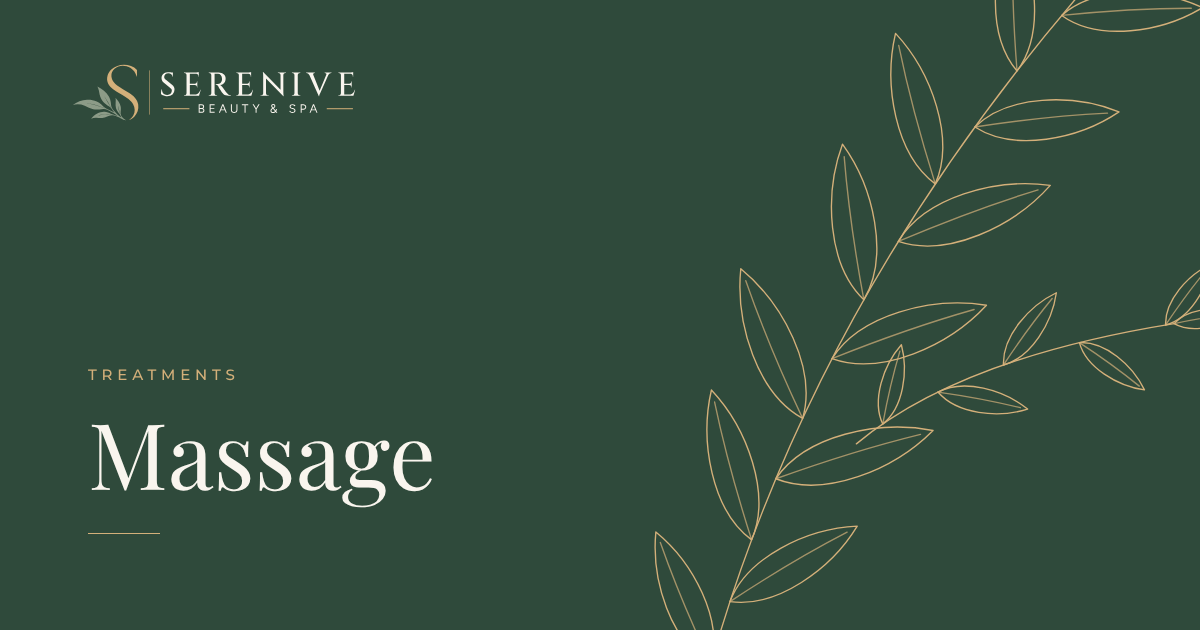
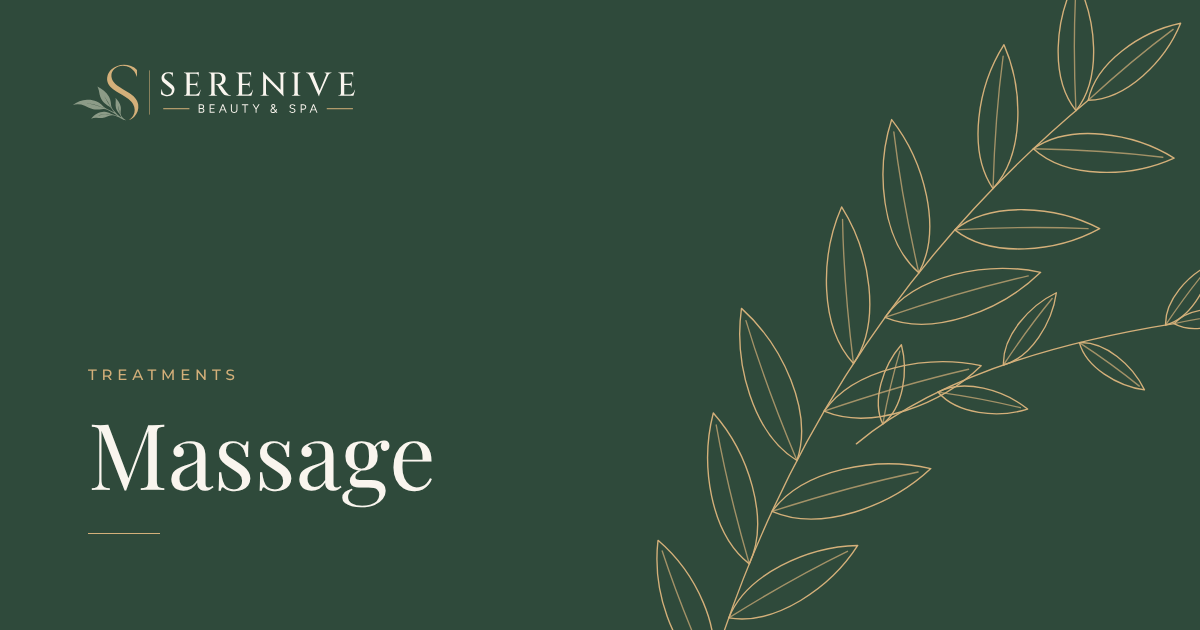
Fix leaf under nav, intro and footer alignment; add Powered by Me²
- Start the hero line art and inner-page leaf texture below the header so
  no leaves sit under the nav; keep branch tips inside their frames
- Intro: label row on top, quote and paragraph share a top line
- Section-head links sit on the heading baseline (a general .link rule was
  overriding the grid alignment)
- Footer logo box no longer stretches to its height attribute (img height
  auto), so it lines up with the column headings; tagline breaks after
  'Beauty.'
- Add 'Powered by Me²' linking to mesquaredagency.com in the footer
- Re-render share images with the updated leaf texture

Claude-Session: https://claude.ai/code/session_018zu9k89iTLere9TFqeFjB4

Changed region(s): [[0.5242, 0.0, 1.0, 1.0]]

diff --git a/public/index.html b/public/index.html
@@ -52,7 +52,7 @@
 <section class="hero">
   <img class="hero__backdrop" src="/assets/textures/hero-backdrop.webp" alt="" width="1920" height="1200" fetchpriority="high" decoding="async">
   <div class="hero__art" aria-hidden="true">
-    <svg viewBox="850 0 750 1000" preserveAspectRatio="xMaxYMid meet"><g class="hero-art__lines" fill="none" stroke="#d4b07a" stroke-width="1.3" stroke-linecap="round" stroke-linejoin="round"><path pathLength="1" d="M1500.0 1000.0Q1180.0 520.0 1340.0 40.0"/><path pathLength="1" d="M1430.1 884.8C1376.7 898.9 1308.4 861.1 1272.3 814.9C1330.8 810.6 1404.6 835.8 1430.1 884.8Z"/><path pathLength="1" d="M1430.1 884.8Q1349.5 853.6 1284.9 820.5" opacity=".7"/><path pathLength="1" d="M1399.7 825.8C1378.9 770.4 1411.8 693.6 1457.2 650.0C1468.1 712.0 1449.2 793.4 1399.7 825.8Z"/><path pathLength="1" d="M1399.7 825.8Q1424.2 736.6 1452.6 664.1" opacity=".7"/><path pathLength="1" d="M1372.9 766.9C1315.7 778.2 1246.2 734.0 1211.1 683.0C1273.0 682.2 1349.2 713.5 1372.9 766.9Z"/><path pathLength="1" d="M1372.9 766.9Q1290.0 728.8 1224.0 689.7" opacity=".7"/><path pathLength="1" d="M1349.7 707.9C1330.9 647.7 1370.4 568.0 1421.3 524.3C1429.2 590.9 1404.3 676.3 1349.7 707.9Z"/><path pathLength="1" d="M1349.7 707.9Q1381.1 614.4 1415.6 539.0" opacity=".7"/><path pathLength="1" d="M1330.1 648.9C1265.7 654.8 1194.2 597.8 1161.4 537.4C1229.9 543.8 1310.3 587.3 1330.1 648.9Z"/><path pathLength="1" d="M1330.1 648.9Q1243.1 597.2 1174.9 546.3" opacity=".7"/><path pathLength="1" d="M1314.2 589.9C1310.3 526.9 1367.9 458.9 1427.7 428.7C1419.5 495.3 1374.8 572.3 1314.2 589.9Z"/><path pathLength="1" d="M1314.2 589.9Q1367.1 506.6 1418.6 441.6" opacity=".7"/><path pathLength="1" d="M1301.9 531.0C1237.7 536.8 1166.6 480.2 1133.9 420.0C1202.1 426.4 1282.1 469.6 1301.9 531.0Z"/><path pathLength="1" d="M1301.9 531.0Q1215.3 479.5 1147.4 428.9" opacity=".7"/><path pathLength="1" d="M1293.2 472.0C1292.1 406.4 1355.0 338.4 1418.5 309.8C1406.9 378.5 1357.0 456.5 1293.2 472.0Z"/><path pathLength="1" d="M1293.2 472.0Q1352.0 387.9 1408.5 322.7" opacity=".7"/><path pathLength="1" d="M1288.1 413.0C1229.9 403.4 1179.8 336.8 1164.7 276.0C1223.7 297.3 1284.7 354.1 1288.1 413.0Z"/><path pathLength="1" d="M1288.1 413.0Q1223.1 347.5 1174.6 286.9" opacity=".7"/><path pathLength="1" d="M1286.7 354.1C1302.1 296.8 1373.7 253.6 1436.0 244.6C1408.7 301.3 1345.9 356.5 1286.7 354.1Z"/><path pathLength="1" d="M1286.7 354.1Q1358.7 295.8 1424.0 253.4" opacity=".7"/><path pathLength="1" d="M1288.9 295.1C1233.4 280.7 1190.9 211.9 1181.7 151.7C1236.8 177.6 1290.7 237.8 1288.9 295.1Z"/><path pathLength="1" d="M1288.9 295.1Q1231.8 226.0 1190.2 163.2" opacity=".7"/><path pathLength="1" d="M1294.7 236.1C1306.9 179.4 1374.8 133.5 1435.3 121.7C1411.4 178.5 1352.7 235.6 1294.7 236.1Z"/><path pathLength="1" d="M1294.7 236.1Q1362.2 175.5 1424.0 130.8" opacity=".7"/><path pathLength="1" d="M1304.1 177.1C1254.1 157.7 1222.1 89.0 1220.1 32.0C1268.5 62.1 1312.1 124.1 1304.1 177.1Z"/><path pathLength="1" d="M1304.1 177.1Q1258.6 106.6 1226.8 43.7" opacity=".7"/><path pathLength="1" d="M1317.1 118.2C1337.7 69.2 1406.4 39.3 1462.8 38.8C1431.8 86.0 1369.4 127.5 1317.1 118.2Z"/><path pathLength="1" d="M1317.1 118.2Q1388.1 75.0 1451.2 45.2" opacity=".7"/><path pathLength="1" d="M1333.8 59.2C1283.4 45.6 1245.3 -17.4 1237.4 -72.3C1287.4 -48.3 1336.0 7.0 1333.8 59.2Z"/><path pathLength="1" d="M1333.8 59.2Q1282.4 -4.2 1245.1 -61.8" opacity=".7"/><path pathLength="1" d="M1340.0 40.0C1323.7 -4.2 1350.2 -65.1 1386.5 -99.5C1394.9 -50.2 1379.5 14.4 1340.0 40.0Z"/><path pathLength="1" d="M1340.0 40.0Q1359.9 -30.8 1382.8 -88.3" opacity=".7"/><path pathLength="1" d="M1240.0 640.0Q1050.0 520.0 930.0 300.0"/><path pathLength="1" d="M1195.4 609.8C1172.4 636.0 1123.3 640.3 1088.0 628.9C1117.2 606.0 1164.7 593.1 1195.4 609.8Z"/><path pathLength="1" d="M1195.4 609.8Q1142.2 621.9 1096.6 627.3" opacity=".7"/><path pathLength="1" d="M1144.8 569.9C1118.2 541.5 1118.7 486.7 1135.2 448.8C1157.4 483.6 1166.6 537.7 1144.8 569.9Z"/><path pathLength="1" d="M1144.8 569.9Q1137.1 509.6 1135.9 458.5" opacity=".7"/><path pathLength="1" d="M1097.0 525.9C1067.4 553.0 1010.7 551.9 971.7 534.4C1008.0 511.8 1064.0 502.9 1097.0 525.9Z"/><path pathLength="1" d="M1097.0 525.9Q1034.6 533.1 981.8 533.7" opacity=".7"/><path pathLength="1" d="M1052.2 477.7C1030.2 445.6 1039.2 391.4 1061.4 356.5C1078.0 394.4 1078.7 449.3 1052.2 477.7Z"/><path pathLength="1" d="M1052.2 477.7Q1053.9 416.9 1060.6 366.2" opacity=".7"/><path pathLength="1" d="M1010.2 425.5C978.5 443.0 929.2 429.9 898.9 406.3C935.3 394.3 986.2 398.5 1010.2 425.5Z"/><path pathLength="1" d="M1010.2 425.5Q954.1 418.6 907.8 407.9" opacity=".7"/><path pathLength="1" d="M971.1 369.2C956.0 337.5 971.6 290.4 996.3 262.4C1005.8 298.5 998.7 347.5 971.1 369.2Z"/><path pathLength="1" d="M971.1 369.2Q981.1 315.2 994.3 270.9" opacity=".7"/><path pathLength="1" d="M934.8 308.8C903.7 318.3 862.6 297.6 840.3 271.2C874.6 267.3 918.7 280.5 934.8 308.8Z"/><path pathLength="1" d="M934.8 308.8Q886.6 292.2 847.8 274.2" opacity=".7"/><path pathLength="1" d="M930.0 300.0C903.1 288.7 886.7 251.1 886.4 220.1C912.3 237.1 935.1 271.3 930.0 300.0Z"/><path pathLength="1" d="M930.0 300.0Q906.3 261.1 889.9 226.5" opacity=".7"/></g></svg>
+    <svg viewBox="850 -110 750 1150" preserveAspectRatio="xMaxYMid meet"><g class="hero-art__lines" fill="none" stroke="#d4b07a" stroke-width="1.3" stroke-linecap="round" stroke-linejoin="round"><path pathLength="1" d="M1500.0 1000.0Q1180.0 520.0 1340.0 40.0"/><path pathLength="1" d="M1430.1 884.8C1376.7 898.9 1308.4 861.1 1272.3 814.9C1330.8 810.6 1404.6 835.8 1430.1 884.8Z"/><path pathLength="1" d="M1430.1 884.8Q1349.5 853.6 1284.9 820.5" opacity=".7"/><path pathLength="1" d="M1399.7 825.8C1378.9 770.4 1411.8 693.6 1457.2 650.0C1468.1 712.0 1449.2 793.4 1399.7 825.8Z"/><path pathLength="1" d="M1399.7 825.8Q1424.2 736.6 1452.6 664.1" opacity=".7"/><path pathLength="1" d="M1372.9 766.9C1315.7 778.2 1246.2 734.0 1211.1 683.0C1273.0 682.2 1349.2 713.5 1372.9 766.9Z"/><path pathLength="1" d="M1372.9 766.9Q1290.0 728.8 1224.0 689.7" opacity=".7"/><path pathLength="1" d="M1349.7 707.9C1330.9 647.7 1370.4 568.0 1421.3 524.3C1429.2 590.9 1404.3 676.3 1349.7 707.9Z"/><path pathLength="1" d="M1349.7 707.9Q1381.1 614.4 1415.6 539.0" opacity=".7"/><path pathLength="1" d="M1330.1 648.9C1265.7 654.8 1194.2 597.8 1161.4 537.4C1229.9 543.8 1310.3 587.3 1330.1 648.9Z"/><path pathLength="1" d="M1330.1 648.9Q1243.1 597.2 1174.9 546.3" opacity=".7"/><path pathLength="1" d="M1314.2 589.9C1310.3 526.9 1367.9 458.9 1427.7 428.7C1419.5 495.3 1374.8 572.3 1314.2 589.9Z"/><path pathLength="1" d="M1314.2 589.9Q1367.1 506.6 1418.6 441.6" opacity=".7"/><path pathLength="1" d="M1301.9 531.0C1237.7 536.8 1166.6 480.2 1133.9 420.0C1202.1 426.4 1282.1 469.6 1301.9 531.0Z"/><path pathLength="1" d="M1301.9 531.0Q1215.3 479.5 1147.4 428.9" opacity=".7"/><path pathLength="1" d="M1293.2 472.0C1292.1 406.4 1355.0 338.4 1418.5 309.8C1406.9 378.5 1357.0 456.5 1293.2 472.0Z"/><path pathLength="1" d="M1293.2 472.0Q1352.0 387.9 1408.5 322.7" opacity=".7"/><path pathLength="1" d="M1288.1 413.0C1229.9 403.4 1179.8 336.8 1164.7 276.0C1223.7 297.3 1284.7 354.1 1288.1 413.0Z"/><path pathLength="1" d="M1288.1 413.0Q1223.1 347.5 1174.6 286.9" opacity=".7"/><path pathLength="1" d="M1286.7 354.1C1302.1 296.8 1373.7 253.6 1436.0 244.6C1408.7 301.3 1345.9 356.5 1286.7 354.1Z"/><path pathLength="1" d="M1286.7 354.1Q1358.7 295.8 1424.0 253.4" opacity=".7"/><path pathLength="1" d="M1288.9 295.1C1233.4 280.7 1190.9 211.9 1181.7 151.7C1236.8 177.6 1290.7 237.8 1288.9 295.1Z"/><path pathLength="1" d="M1288.9 295.1Q1231.8 226.0 1190.2 163.2" opacity=".7"/><path pathLength="1" d="M1294.7 236.1C1306.9 179.4 1374.8 133.5 1435.3 121.7C1411.4 178.5 1352.7 235.6 1294.7 236.1Z"/><path pathLength="1" d="M1294.7 236.1Q1362.2 175.5 1424.0 130.8" opacity=".7"/><path pathLength="1" d="M1304.1 177.1C1254.1 157.7 1222.1 89.0 1220.1 32.0C1268.5 62.1 1312.1 124.1 1304.1 177.1Z"/><path pathLength="1" d="M1304.1 177.1Q1258.6 106.6 1226.8 43.7" opacity=".7"/><path pathLength="1" d="M1317.1 118.2C1337.7 69.2 1406.4 39.3 1462.8 38.8C1431.8 86.0 1369.4 127.5 1317.1 118.2Z"/><path pathLength="1" d="M1317.1 118.2Q1388.1 75.0 1451.2 45.2" opacity=".7"/><path pathLength="1" d="M1333.8 59.2C1283.4 45.6 1245.3 -17.4 1237.4 -72.3C1287.4 -48.3 1336.0 7.0 1333.8 59.2Z"/><path pathLength="1" d="M1333.8 59.2Q1282.4 -4.2 1245.1 -61.8" opacity=".7"/><path pathLength="1" d="M1340.0 40.0C1323.7 -4.2 1350.2 -65.1 1386.5 -99.5C1394.9 -50.2 1379.5 14.4 1340.0 40.0Z"/><path pathLength="1" d="M1340.0 40.0Q1359.9 -30.8 1382.8 -88.3" opacity=".7"/><path pathLength="1" d="M1240.0 640.0Q1050.0 520.0 930.0 300.0"/><path pathLength="1" d="M1195.4 609.8C1172.4 636.0 1123.3 640.3 1088.0 628.9C1117.2 606.0 1164.7 593.1 1195.4 609.8Z"/><path pathLength="1" d="M1195.4 609.8Q1142.2 621.9 1096.6 627.3" opacity=".7"/><path pathLength="1" d="M1144.8 569.9C1118.2 541.5 1118.7 486.7 1135.2 448.8C1157.4 483.6 1166.6 537.7 1144.8 569.9Z"/><path pathLength="1" d="M1144.8 569.9Q1137.1 509.6 1135.9 458.5" opacity=".7"/><path pathLength="1" d="M1097.0 525.9C1067.4 553.0 1010.7 551.9 971.7 534.4C1008.0 511.8 1064.0 502.9 1097.0 525.9Z"/><path pathLength="1" d="M1097.0 525.9Q1034.6 533.1 981.8 533.7" opacity=".7"/><path pathLength="1" d="M1052.2 477.7C1030.2 445.6 1039.2 391.4 1061.4 356.5C1078.0 394.4 1078.7 449.3 1052.2 477.7Z"/><path pathLength="1" d="M1052.2 477.7Q1053.9 416.9 1060.6 366.2" opacity=".7"/><path pathLength="1" d="M1010.2 425.5C978.5 443.0 929.2 429.9 898.9 406.3C935.3 394.3 986.2 398.5 1010.2 425.5Z"/><path pathLength="1" d="M1010.2 425.5Q954.1 418.6 907.8 407.9" opacity=".7"/><path pathLength="1" d="M971.1 369.2C956.0 337.5 971.6 290.4 996.3 262.4C1005.8 298.5 998.7 347.5 971.1 369.2Z"/><path pathLength="1" d="M971.1 369.2Q981.1 315.2 994.3 270.9" opacity=".7"/><path pathLength="1" d="M934.8 308.8C903.7 318.3 862.6 297.6 840.3 271.2C874.6 267.3 918.7 280.5 934.8 308.8Z"/><path pathLength="1" d="M934.8 308.8Q886.6 292.2 847.8 274.2" opacity=".7"/><path pathLength="1" d="M930.0 300.0C903.1 288.7 886.7 251.1 886.4 220.1C912.3 237.1 935.1 271.3 930.0 300.0Z"/><path pathLength="1" d="M930.0 300.0Q906.3 261.1 889.9 226.5" opacity=".7"/></g></svg>
   </div>
   <div class="wrap hero__content">
     <img class="hero__mark" src="/assets/logos/serenive-monogram-ivory.svg" alt="" width="311" height="266">
@@ -65,12 +65,12 @@
 
 <section class="section section--ivory intro" aria-labelledby="why-title">
   <div class="wrap intro__grid" data-reveal>
-    <div class="stack">
+    <div class="intro__label">
       <hr class="rule">
       <p class="eyebrow">Why we exist</p>
-      <h2 class="quote" id="why-title">At Serenive, we believe true wellness comes from nurturing both body and mind.</h2>
     </div>
-    <div class="stack">
+    <h2 class="quote" id="why-title">At Serenive, we believe true wellness comes from nurturing both body and mind.</h2>
+    <div class="intro__body">
       <p class="lede">Through moments of serenity, thoughtful care and restorative treatments, we invite you to slow down, reconnect and rediscover the beauty of feeling truly well.</p>
       <a class="link" href="/philosophy">Our philosophy</a>
     </div>
@@ -187,7 +187,7 @@
     <div class="footer-top">
       <div class="footer-brand">
         <img src="/assets/logos/serenive-horizontal-reversed.svg" alt="Serenive Beauty &amp; Spa" width="816" height="198" loading="lazy">
-        <p class="footer-tag">More Than Beauty. A Feeling of Wellbeing.</p>
+        <p class="footer-tag">More Than Beauty.<br>A Feeling of Wellbeing.</p>
       </div>
       <div>
         <h2>Visit</h2>
@@ -213,7 +213,10 @@
     </div>
     <div class="footer-bottom">
       <p>&copy; <span id="year">2026</span> Serenive Beauty &amp; Spa</p>
-      <p><a href="https://serenive.com.au/">serenive.com.au</a></p>
+      <div class="footer-bottom__right">
+        <p><a href="https://serenive.com.au/">serenive.com.au</a></p>
+        <p class="powered">Powered by <a href="https://mesquaredagency.com/" rel="noopener">Me²</a></p>
+      </div>
     </div>
   </div>
 </footer>

diff --git a/public/css/site.css b/public/css/site.css
@@ -79,6 +79,7 @@ body {
   text-rendering: optimizeLegibility;
 }
 img, svg { display: block; max-width: 100%; }
+img { height: auto; }
 a { color: inherit; }
 p { margin: 0; }
 button, input, textarea, select { font: inherit; color: inherit; }
@@ -289,7 +290,7 @@ button, input, textarea, select { font: inherit; color: inherit; }
   padding-block: calc(140px + env(safe-area-inset-top, 0px)) 120px;
 }
 .hero__backdrop { position: absolute; inset: -3%; z-index: -2; width: 106%; height: 106%; max-width: none; object-fit: cover; animation: hero-drift 40s var(--ease) infinite alternate; will-change: transform; }
-.hero__art { position: absolute; top: 0; bottom: 0; right: 0; width: min(36vw, 560px); z-index: -1; pointer-events: none; }
+.hero__art { position: absolute; top: calc(96px + env(safe-area-inset-top, 0px)); bottom: 0; right: 0; width: min(36vw, 560px); z-index: -1; pointer-events: none; }
 @media (max-width: 760px) { .hero__art { width: 46vw; opacity: .55; } }
 .hero__art svg { width: 100%; height: 100%; }
 .hero-art__lines path { stroke-dasharray: 1; stroke-dashoffset: 1; animation: draw 4.2s var(--ease) .3s forwards; }
@@ -314,7 +315,7 @@ button, input, textarea, select { font: inherit; color: inherit; }
 /* ---------- Page hero (inner pages) ---------- */
 .page-hero {
   position: relative; overflow: hidden;
-  background: var(--forest) url("../assets/textures/forest-leaf.svg") right -40px center / auto 130% no-repeat;
+  background: var(--forest) url("../assets/textures/forest-leaf.svg") right -40px top calc(96px + env(safe-area-inset-top, 0px)) / auto 115% no-repeat;
   color: var(--on-forest);
   padding-block: calc(180px + env(safe-area-inset-top, 0px)) clamp(64px, 8vw, 112px);
 }
@@ -326,7 +327,7 @@ button, input, textarea, select { font: inherit; color: inherit; }
 .page-hero .stack > .h1 { animation-name: settle; } /* after the shorthand above, which would otherwise win */
 .page-hero .lede { color: var(--on-forest-muted); }
 @media (max-width: 760px) {
-  .page-hero { background-size: auto 70%; background-position: right -120px top 40px; }
+  .page-hero { background-size: auto 70%; background-position: right -120px top calc(88px + env(safe-area-inset-top, 0px)); }
   .page-hero__text { max-width: none; }
 }
 
@@ -360,15 +361,17 @@ button, input, textarea, select { font: inherit; color: inherit; }
 [data-draft] .tbc--q::after { content: " (to confirm)"; font-size: .78em; opacity: .7; letter-spacing: 0; text-transform: none; }
 
 /* ---------- Home: why we exist ---------- */
-.intro__grid { display: grid; grid-template-columns: repeat(12, minmax(0, 1fr)); gap: var(--space-5) var(--space-4); align-items: end; }
-.intro__grid > :first-child { grid-column: 1 / span 7; min-width: 0; }
-.intro__grid > :last-child { grid-column: 9 / span 4; min-width: 0; }
+.intro__grid { display: grid; grid-template-columns: repeat(12, minmax(0, 1fr)); gap: var(--space-4); align-items: start; }
+.intro__label { grid-column: 1 / -1; display: flex; flex-direction: column; gap: var(--space-4); }
+.intro__grid .quote { grid-column: 1 / span 7; min-width: 0; }
+.intro__body { grid-column: 9 / span 4; min-width: 0; display: flex; flex-direction: column; gap: var(--space-4); padding-top: 6px; }
 .intro .lede { color: var(--ink-muted); }
-@media (max-width: 860px) { .intro__grid > :first-child, .intro__grid > :last-child { grid-column: 1 / -1; } }
+@media (max-width: 860px) { .intro__grid .quote, .intro__body { grid-column: 1 / -1; } .intro__body { padding-top: 0; } }
 
 /* ---------- Section heads ---------- */
 .section-head { display: grid; grid-template-columns: minmax(0, 1fr) auto; align-items: end; gap: var(--space-4); margin-bottom: var(--space-6); }
 .section-head--tight { margin-bottom: 0; }
+.section-head > .link { align-self: end; margin-bottom: 6px; }
 .section-head > div { min-width: 0; }
 @media (max-width: 560px) { .section-head { grid-template-columns: 1fr; } }
 
@@ -536,7 +539,7 @@ textarea.field { padding: 14px 16px; min-height: 140px; resize: vertical; }
 .site-footer .wrap { padding-block: var(--space-6) var(--space-5); display: flex; flex-direction: column; gap: var(--space-6); }
 .footer-top { display: grid; grid-template-columns: minmax(0, 1.5fr) repeat(4, minmax(0, 1fr)); gap: var(--space-5) var(--space-4); }
 .footer-top > div { min-width: 0; }
-.footer-brand img { width: 240px; max-width: 100%; margin-left: -10px; }
+.footer-brand img { width: 240px; max-width: 100%; margin-left: -7px; }
 .footer-top h2 { font-family: var(--font-sans); font-size: 11px; line-height: 18px; font-weight: 500; letter-spacing: .28em; text-transform: uppercase; color: var(--gold); margin: 0 0 var(--space-3); }
 .footer-top ul { list-style: none; margin: 0; padding: 0; display: flex; flex-direction: column; gap: 6px; }
 .footer-top a:not(.link) { text-decoration: none; }
@@ -548,6 +551,10 @@ textarea.field { padding: 14px 16px; min-height: 140px; resize: vertical; }
 .footer-tag { font-family: var(--font-display); font-style: italic; font-size: 20px; line-height: 30px; color: var(--on-forest) !important; margin-top: var(--space-4); }
 .footer-bottom { display: flex; flex-wrap: wrap; justify-content: space-between; gap: var(--space-3); padding-top: var(--space-4); border-top: 1px solid var(--forest-raised); font-size: 13px; color: var(--on-forest-muted); }
 .footer-bottom a { text-decoration: none; }
+.footer-bottom__right { display: flex; flex-wrap: wrap; gap: var(--space-2) var(--space-4); }
+.powered { letter-spacing: .04em; }
+.powered a { color: var(--on-forest); }
+.powered a:hover { color: var(--gold); }
 .footer-bottom a:hover { color: var(--on-forest); }
 @media (max-width: 1100px) { .footer-top { grid-template-columns: repeat(4, minmax(0, 1fr)); } .footer-brand { grid-column: 1 / -1; } }
 @media (max-width: 640px) { .footer-top { grid-template-columns: repeat(2, minmax(0, 1fr)); } }

diff --git a/public/packages.html b/public/packages.html
@@ -132,7 +132,7 @@
     <div class="footer-top">
       <div class="footer-brand">
         <img src="/assets/logos/serenive-horizontal-reversed.svg" alt="Serenive Beauty &amp; Spa" width="816" height="198" loading="lazy">
-        <p class="footer-tag">More Than Beauty. A Feeling of Wellbeing.</p>
+        <p class="footer-tag">More Than Beauty.<br>A Feeling of Wellbeing.</p>
       </div>
       <div>
         <h2>Visit</h2>
@@ -158,7 +158,10 @@
     </div>
     <div class="footer-bottom">
       <p>&copy; <span id="year">2026</span> Serenive Beauty &amp; Spa</p>
-      <p><a href="https://serenive.com.au/">serenive.com.au</a></p>
+      <div class="footer-bottom__right">
+        <p><a href="https://serenive.com.au/">serenive.com.au</a></p>
+        <p class="powered">Powered by <a href="https://mesquaredagency.com/" rel="noopener">Me²</a></p>
+      </div>
     </div>
   </div>
 </footer>

diff --git a/public/philosophy.html b/public/philosophy.html
@@ -100,7 +100,7 @@
     <div class="footer-top">
       <div class="footer-brand">
         <img src="/assets/logos/serenive-horizontal-reversed.svg" alt="Serenive Beauty &amp; Spa" width="816" height="198" loading="lazy">
-        <p class="footer-tag">More Than Beauty. A Feeling of Wellbeing.</p>
+        <p class="footer-tag">More Than Beauty.<br>A Feeling of Wellbeing.</p>
       </div>
       <div>
         <h2>Visit</h2>
@@ -126,7 +126,10 @@
     </div>
     <div class="footer-bottom">
       <p>&copy; <span id="year">2026</span> Serenive Beauty &amp; Spa</p>
-      <p><a href="https://serenive.com.au/">serenive.com.au</a></p>
+      <div class="footer-bottom__right">
+        <p><a href="https://serenive.com.au/">serenive.com.au</a></p>
+        <p class="powered">Powered by <a href="https://mesquaredagency.com/" rel="noopener">Me²</a></p>
+      </div>
     </div>
   </div>
 </footer>

diff --git a/public/treatments.html b/public/treatments.html
@@ -139,7 +139,7 @@
     <div class="footer-top">
       <div class="footer-brand">
         <img src="/assets/logos/serenive-horizontal-reversed.svg" alt="Serenive Beauty &amp; Spa" width="816" height="198" loading="lazy">
-        <p class="footer-tag">More Than Beauty. A Feeling of Wellbeing.</p>
+        <p class="footer-tag">More Than Beauty.<br>A Feeling of Wellbeing.</p>
       </div>
       <div>
         <h2>Visit</h2>
@@ -165,7 +165,10 @@
     </div>
     <div class="footer-bottom">
       <p>&copy; <span id="year">2026</span> Serenive Beauty &amp; Spa</p>
-      <p><a href="https://serenive.com.au/">serenive.com.au</a></p>
+      <div class="footer-bottom__right">
+        <p><a href="https://serenive.com.au/">serenive.com.au</a></p>
+        <p class="powered">Powered by <a href="https://mesquaredagency.com/" rel="noopener">Me²</a></p>
+      </div>
     </div>
   </div>
 </footer>

diff --git a/public/treatments/body-treatments.html b/public/treatments/body-treatments.html
@@ -135,7 +135,7 @@
     <div class="footer-top">
       <div class="footer-brand">
         <img src="/assets/logos/serenive-horizontal-reversed.svg" alt="Serenive Beauty &amp; Spa" width="816" height="198" loading="lazy">
-        <p class="footer-tag">More Than Beauty. A Feeling of Wellbeing.</p>
+        <p class="footer-tag">More Than Beauty.<br>A Feeling of Wellbeing.</p>
       </div>
       <div>
         <h2>Visit</h2>
@@ -161,7 +161,10 @@
     </div>
     <div class="footer-bottom">
       <p>&copy; <span id="year">2026</span> Serenive Beauty &amp; Spa</p>
-      <p><a href="https://serenive.com.au/">serenive.com.au</a></p>
+      <div class="footer-bottom__right">
+        <p><a href="https://serenive.com.au/">serenive.com.au</a></p>
+        <p class="powered">Powered by <a href="https://mesquaredagency.com/" rel="noopener">Me²</a></p>
+      </div>
     </div>
   </div>
 </footer>

diff --git a/public/treatments/facials.html b/public/treatments/facials.html
@@ -135,7 +135,7 @@
     <div class="footer-top">
       <div class="footer-brand">
         <img src="/assets/logos/serenive-horizontal-reversed.svg" alt="Serenive Beauty &amp; Spa" width="816" height="198" loading="lazy">
-        <p class="footer-tag">More Than Beauty. A Feeling of Wellbeing.</p>
+        <p class="footer-tag">More Than Beauty.<br>A Feeling of Wellbeing.</p>
       </div>
       <div>
         <h2>Visit</h2>
@@ -161,7 +161,10 @@
     </div>
     <div class="footer-bottom">
       <p>&copy; <span id="year">2026</span> Serenive Beauty &amp; Spa</p>
-      <p><a href="https://serenive.com.au/">serenive.com.au</a></p>
+      <div class="footer-bottom__right">
+        <p><a href="https://serenive.com.au/">serenive.com.au</a></p>
+        <p class="powered">Powered by <a href="https://mesquaredagency.com/" rel="noopener">Me²</a></p>
+      </div>
     </div>
   </div>
 </footer>

diff --git a/public/treatments/massage.html b/public/treatments/massage.html
@@ -135,7 +135,7 @@
     <div class="footer-top">
       <div class="footer-brand">
         <img src="/assets/logos/serenive-horizontal-reversed.svg" alt="Serenive Beauty &amp; Spa" width="816" height="198" loading="lazy">
-        <p class="footer-tag">More Than Beauty. A Feeling of Wellbeing.</p>
+        <p class="footer-tag">More Than Beauty.<br>A Feeling of Wellbeing.</p>
       </div>
       <div>
         <h2>Visit</h2>
@@ -161,7 +161,10 @@
     </div>
     <div class="footer-bottom">
       <p>&copy; <span id="year">2026</span> Serenive Beauty &amp; Spa</p>
-      <p><a href="https://serenive.com.au/">serenive.com.au</a></p>
+      <div class="footer-bottom__right">
+        <p><a href="https://serenive.com.au/">serenive.com.au</a></p>
+        <p class="powered">Powered by <a href="https://mesquaredagency.com/" rel="noopener">Me²</a></p>
+      </div>
     </div>
   </div>
 </footer>

diff --git a/public/treatments/skin-therapy.html b/public/treatments/skin-therapy.html
@@ -135,7 +135,7 @@
     <div class="footer-top">
       <div class="footer-brand">
         <img src="/assets/logos/serenive-horizontal-reversed.svg" alt="Serenive Beauty &amp; Spa" width="816" height="198" loading="lazy">
-        <p class="footer-tag">More Than Beauty. A Feeling of Wellbeing.</p>
+        <p class="footer-tag">More Than Beauty.<br>A Feeling of Wellbeing.</p>
       </div>
       <div>
         <h2>Visit</h2>
@@ -161,7 +161,10 @@
     </div>
     <div class="footer-bottom">
       <p>&copy; <span id="year">2026</span> Serenive Beauty &amp; Spa</p>
-      <p><a href="https://serenive.com.au/">serenive.com.au</a></p>
+      <div class="footer-bottom__right">
+        <p><a href="https://serenive.com.au/">serenive.com.au</a></p>
+        <p class="powered">Powered by <a href="https://mesquaredagency.com/" rel="noopener">Me²</a></p>
+      </div>
     </div>
   </div>
 </footer>

diff --git a/public/treatments/wellness-packages.html b/public/treatments/wellness-packages.html
@@ -135,7 +135,7 @@
     <div class="footer-top">
       <div class="footer-brand">
         <img src="/assets/logos/serenive-horizontal-reversed.svg" alt="Serenive Beauty &amp; Spa" width="816" height="198" loading="lazy">
-        <p class="footer-tag">More Than Beauty. A Feeling of Wellbeing.</p>
+        <p class="footer-tag">More Than Beauty.<br>A Feeling of Wellbeing.</p>
       </div>
       <div>
         <h2>Visit</h2>
@@ -161,7 +161,10 @@
     </div>
     <div class="footer-bottom">
       <p>&copy; <span id="year">2026</span> Serenive Beauty &amp; Spa</p>
-      <p><a href="https://serenive.com.au/">serenive.com.au</a></p>
+      <div class="footer-bottom__right">
+        <p><a href="https://serenive.com.au/">serenive.com.au</a></p>
+        <p class="powered">Powered by <a href="https://mesquaredagency.com/" rel="noopener">Me²</a></p>
+      </div>
     </div>
   </div>
 </footer>

diff --git a/public/book.html b/public/book.html
@@ -99,7 +99,7 @@
     <div class="footer-top">
       <div class="footer-brand">
         <img src="/assets/logos/serenive-horizontal-reversed.svg" alt="Serenive Beauty &amp; Spa" width="816" height="198" loading="lazy">
-        <p class="footer-tag">More Than Beauty. A Feeling of Wellbeing.</p>
+        <p class="footer-tag">More Than Beauty.<br>A Feeling of Wellbeing.</p>
       </div>
       <div>
         <h2>Visit</h2>
@@ -125,7 +125,10 @@
     </div>
     <div class="footer-bottom">
       <p>&copy; <span id="year">2026</span> Serenive Beauty &amp; Spa</p>
-      <p><a href="https://serenive.com.au/">serenive.com.au</a></p>
+      <div class="footer-bottom__right">
+        <p><a href="https://serenive.com.au/">serenive.com.au</a></p>
+        <p class="powered">Powered by <a href="https://mesquaredagency.com/" rel="noopener">Me²</a></p>
+      </div>
     </div>
   </div>
 </footer>

diff --git a/public/visit.html b/public/visit.html
@@ -99,7 +99,7 @@
     <div class="footer-top">
       <div class="footer-brand">
         <img src="/assets/logos/serenive-horizontal-reversed.svg" alt="Serenive Beauty &amp; Spa" width="816" height="198" loading="lazy">
-        <p class="footer-tag">More Than Beauty. A Feeling of Wellbeing.</p>
+        <p class="footer-tag">More Than Beauty.<br>A Feeling of Wellbeing.</p>
       </div>
       <div>
         <h2>Visit</h2>
@@ -125,7 +125,10 @@
     </div>
     <div class="footer-bottom">
       <p>&copy; <span id="year">2026</span> Serenive Beauty &amp; Spa</p>
-      <p><a href="https://serenive.com.au/">serenive.com.au</a></p>
+      <div class="footer-bottom__right">
+        <p><a href="https://serenive.com.au/">serenive.com.au</a></p>
+        <p class="powered">Powered by <a href="https://mesquaredagency.com/" rel="noopener">Me²</a></p>
+      </div>
     </div>
   </div>
 </footer>
